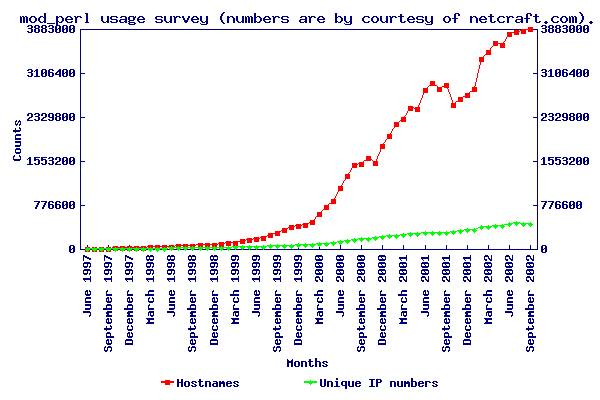
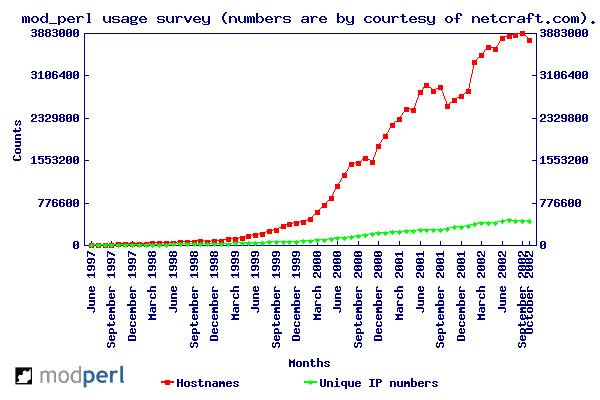
October 2002 stats update Just like is has happened every year mod_perl usage graph gets a ditch in October. Amazing!
git-svn-id: https://svn.apache.org/repos/asf/perl/modperl/docs/trunk@66829 13f79535-47bb-0310-9956-ffa450edef68

Changed region(s): [[0.03, 0.03, 0.99, 0.87], [0.0, 0.9, 0.21, 0.96], [0.48, 0.9, 0.57, 0.93]]

diff --git a/src/outstanding/stats/securityspace.html b/src/outstanding/stats/securityspace.html
@@ -7,12 +7,12 @@
 <body bgcolor="#ffffff">
 
 <p> SecuritySpace provides an <a
-href="http://www.securityspace.com/s_survey/data/man.200209/apachemods.html?mod=cGVybA==">Apache
+href="http://www.securityspace.com/s_survey/data/man.200210/apachemods.html?mod=cGVybA==">Apache
 Module Report on mod_perl</a> comprising statistics and a graph based
 on the data collected by <a
 href="http://www.securityspace.com/">www.securityspace.com</a>. They
 also feature <a
-href="http://www.securityspace.com/s_survey/data/man.200209/apachemods.html">a
+href="http://www.securityspace.com/s_survey/data/man.200210/apachemods.html">a
 comparison</a> between all the Apache modules they survey.  </p>
 
 </body>

diff --git a/src/outstanding/stats/netcraft.html b/src/outstanding/stats/netcraft.html
@@ -31,6 +31,7 @@ http://www.netcraft.com/survey/Reports/200206/mod_perl.txt till July
 
 <table cellpadding="3" border="1" cellspacing="0">
 <tr><th>Survey</th><th>Hostnames</th><th>Unique IP Addresses</th></tr>
+<tr><td> October 2002   </td><td>3753202</td><td>434418</td></tr>
 <tr><td> September 2002 </td><td>3882275</td><td>438194</td></tr>
 <tr><td> August 2002    </td><td>3849195</td><td>437944</td></tr>
 <tr><td> July 2002      </td><td>3826447</td><td>451408</td></tr>
